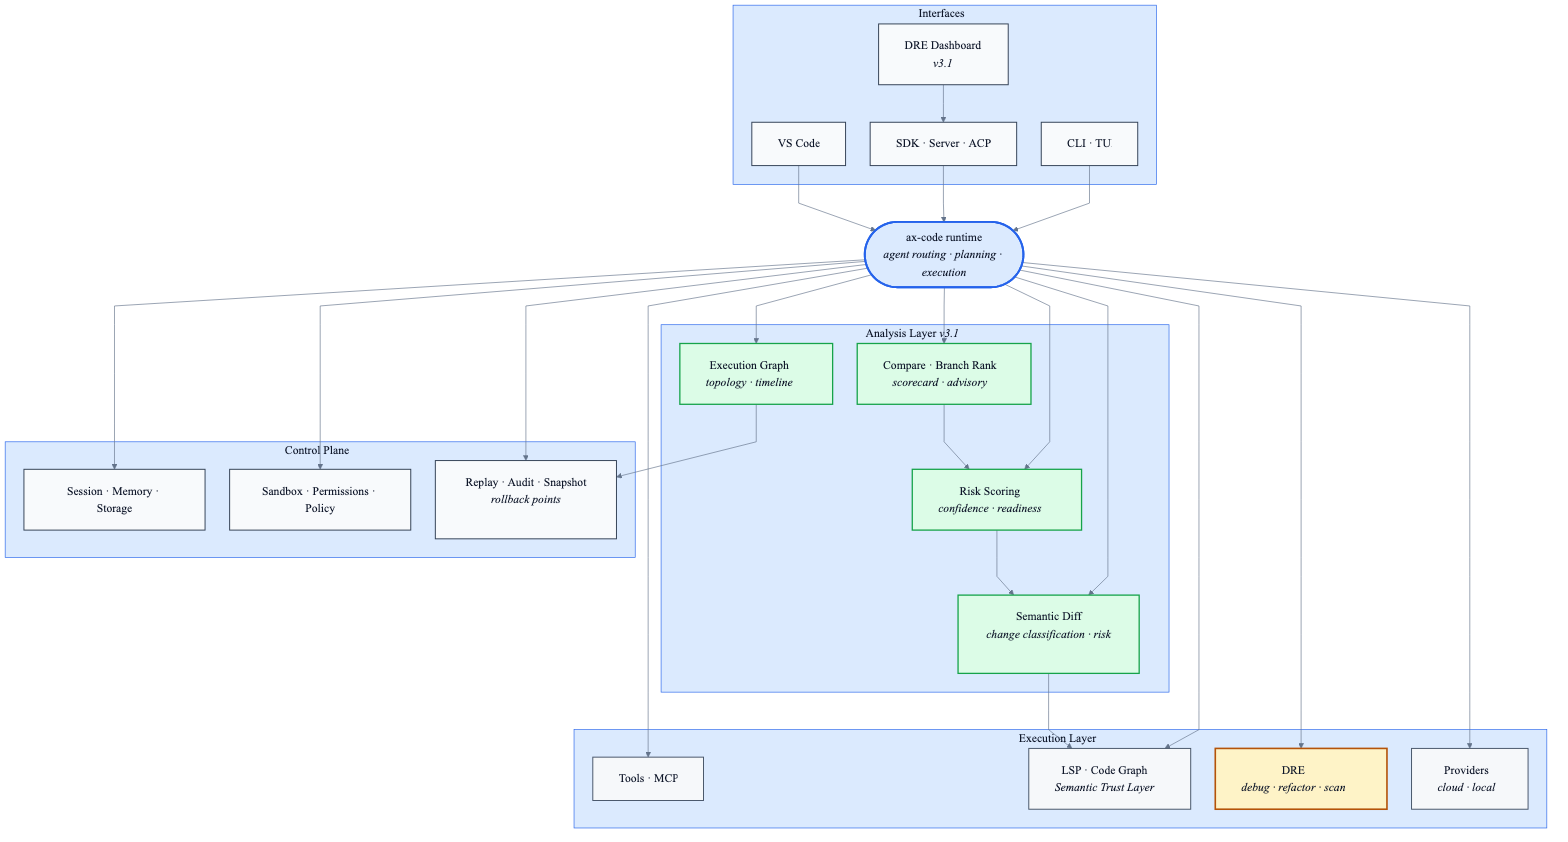
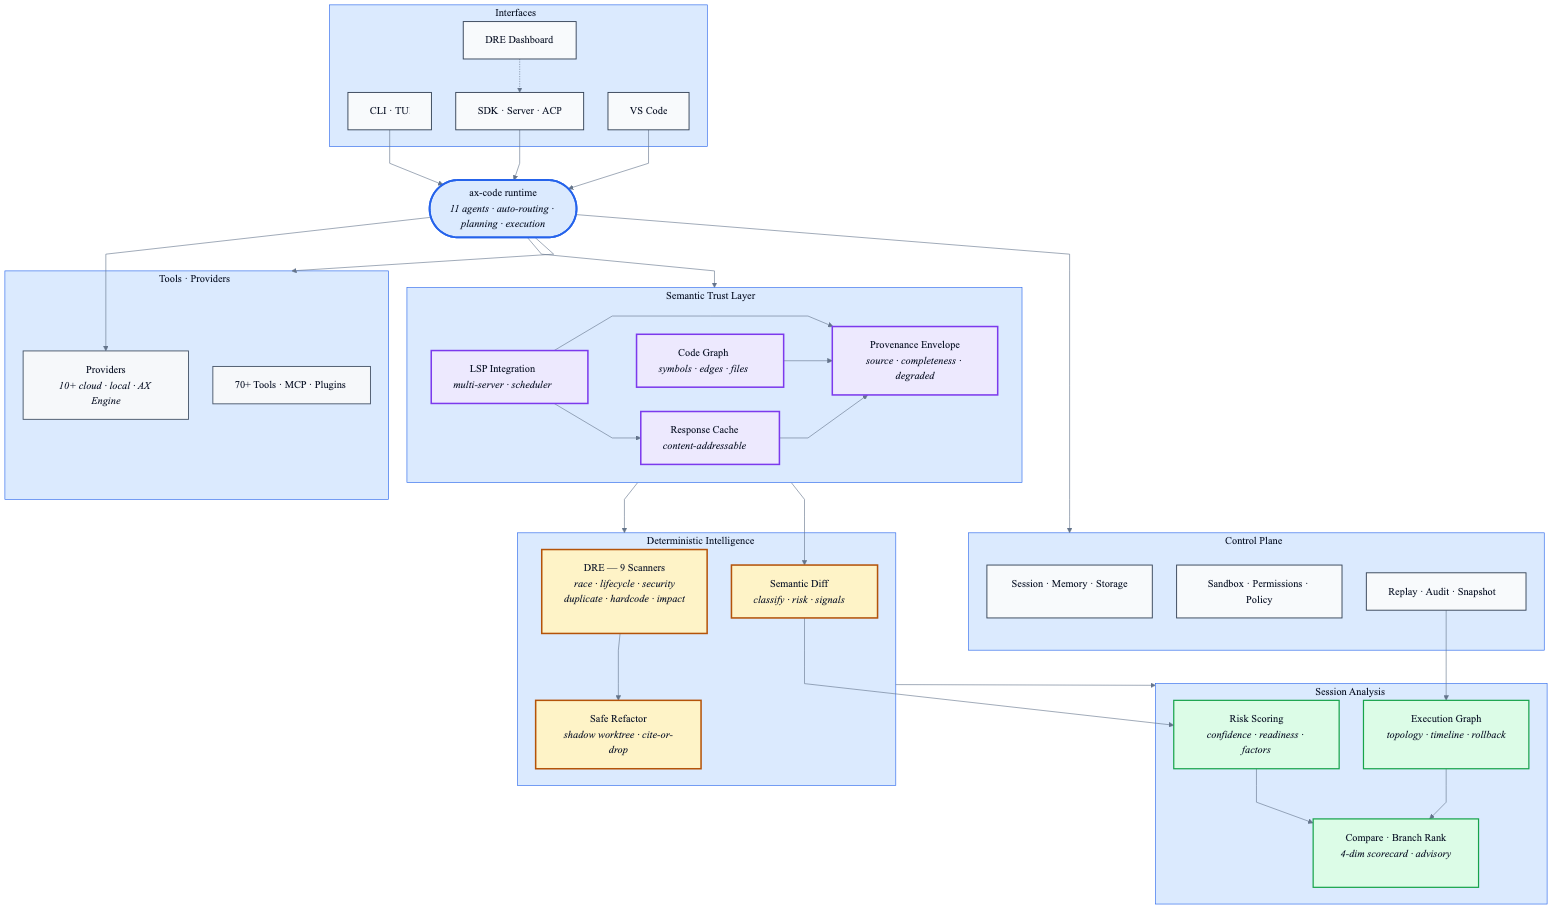
docs: redesign runtime architecture diagram around Semantic Trust Layer
Rethink the architecture diagram to emphasize the Semantic Trust Layer
as the central foundation, with data flowing downward through three
tiers:

1. Semantic Trust Layer (purple) — LSP integration, code graph,
   response cache, provenance envelope. The trust foundation.

2. Deterministic Intelligence (amber) — DRE with 9 scanners, safe
   refactoring via shadow worktree, semantic diff classification.
   Built ON the semantic layer, not beside it.

3. Session Analysis (green) — risk scoring, compare/branch rank,
   execution graph. Consumes both semantic and deterministic signals.

The diagram now shows real data flow relationships:
- LSP → Cache → Envelope (internal semantic flow)
- Semantic Layer → DRE → Session Analysis (layered dependency)
- Replay/Audit → Execution Graph → Compare (event-driven analysis)
- Semantic Diff → Risk → Compare (signal aggregation chain)

README text restructured to match: leads with Semantic Trust Layer,
then Deterministic Intelligence, then Session Analysis, then
Execution and Control Plane.

diff --git a/README.md b/README.md
@@ -78,18 +78,13 @@ This is the product runtime itself, independent of the broader ecosystem:
 
 Source: [docs/ax-code-runtime.mmd](docs/ax-code-runtime.mmd)
 
-The important distinction is that `ax-code` is not just a chat UI. It is a runtime that coordinates:
+The important distinction is that `ax-code` is not just a chat UI. It is a runtime built around a **Semantic Trust Layer** that ensures every AI-consumed answer is traceable, cacheable, and replayable:
 
-- interfaces such as CLI, TUI, SDK, ACP, headless server mode, and the **DRE Dashboard** (v3.1 — browser-based execution visualization)
-- agent routing, planning, and dependency-ordered execution
-- tool execution, MCP integrations, a semantic layer with explicit LSP-vs-graph provenance, content-addressable LSP cache, audit/replay metadata, and a persistent code graph backed by language servers
-- the **Debugging & Refactoring Engine** (DRE, v2.3+) — deterministic-first root-cause analysis, proactive scanners (race conditions, resource leaks, security patterns, hardcoded values), change-impact analysis, and shadow-worktree-validated refactors
-- **semantic change analysis** (v3.1) — deterministic classification of file changes (bug fix, refactor, optimization, rewrite, etc.) with per-change risk scoring
-- **session analysis layer** (v3.1) — risk scoring with confidence/readiness, 4-dimension decision scorecard (correctness/safety/simplicity/validation), session comparison with advisory, branch family ranking, step-level rollback points, and execution graph topology
-- **incremental indexing** (v2.4) — content-hash skip on unchanged files, orphan purge on deleted files, per-file progress reporting
-- session, memory, and storage state with replay, audit, and snapshot trails
-- sandbox, permission, and policy boundaries
-- provider abstraction across hosted and local inference
+- **Semantic Trust Layer** — LSP integration (multi-server, scheduler, concurrency budget), persistent code graph (symbols, edges, call hierarchy), content-addressable response cache, and provenance envelopes that stamp every result with `source`, `completeness`, and `degraded` status
+- **Deterministic Intelligence** — the DRE (Debugging & Refactoring Engine) with 9 scanners (race conditions, resource leaks, security patterns, hardcoded values, duplicates, impact analysis), shadow-worktree-validated refactoring with cite-or-drop invariant, and semantic change classification (bug fix, refactor, optimization, rewrite, etc.) with per-change risk scoring
+- **Session Analysis** (v3.1) — risk scoring with confidence and readiness, 4-dimension decision scorecard (correctness / safety / simplicity / validation), session comparison with advisory, branch family ranking, step-level rollback points, execution graph with topology and timeline, and the DRE Dashboard for browser-based visualization
+- **Execution** — 11 specialized agents with auto-routing, 70+ tools, MCP integrations, plugin system, 10+ cloud and local providers
+- **Control Plane** — session persistence with replay and audit trails, sandbox and permission boundaries, encrypted storage, snapshot-based rollback
 
 ## High-Value Use Cases
 
